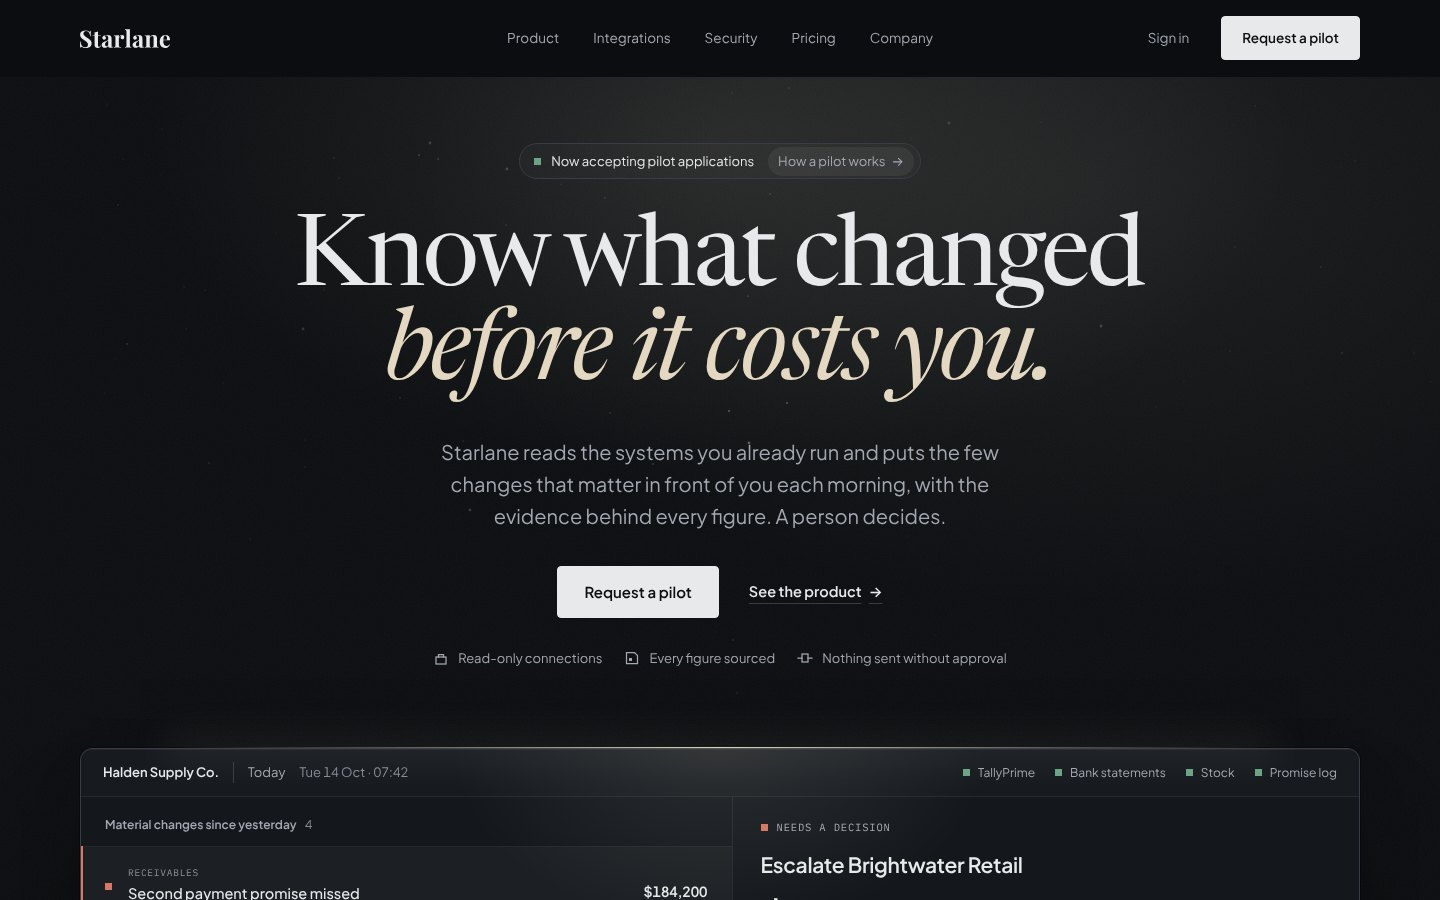
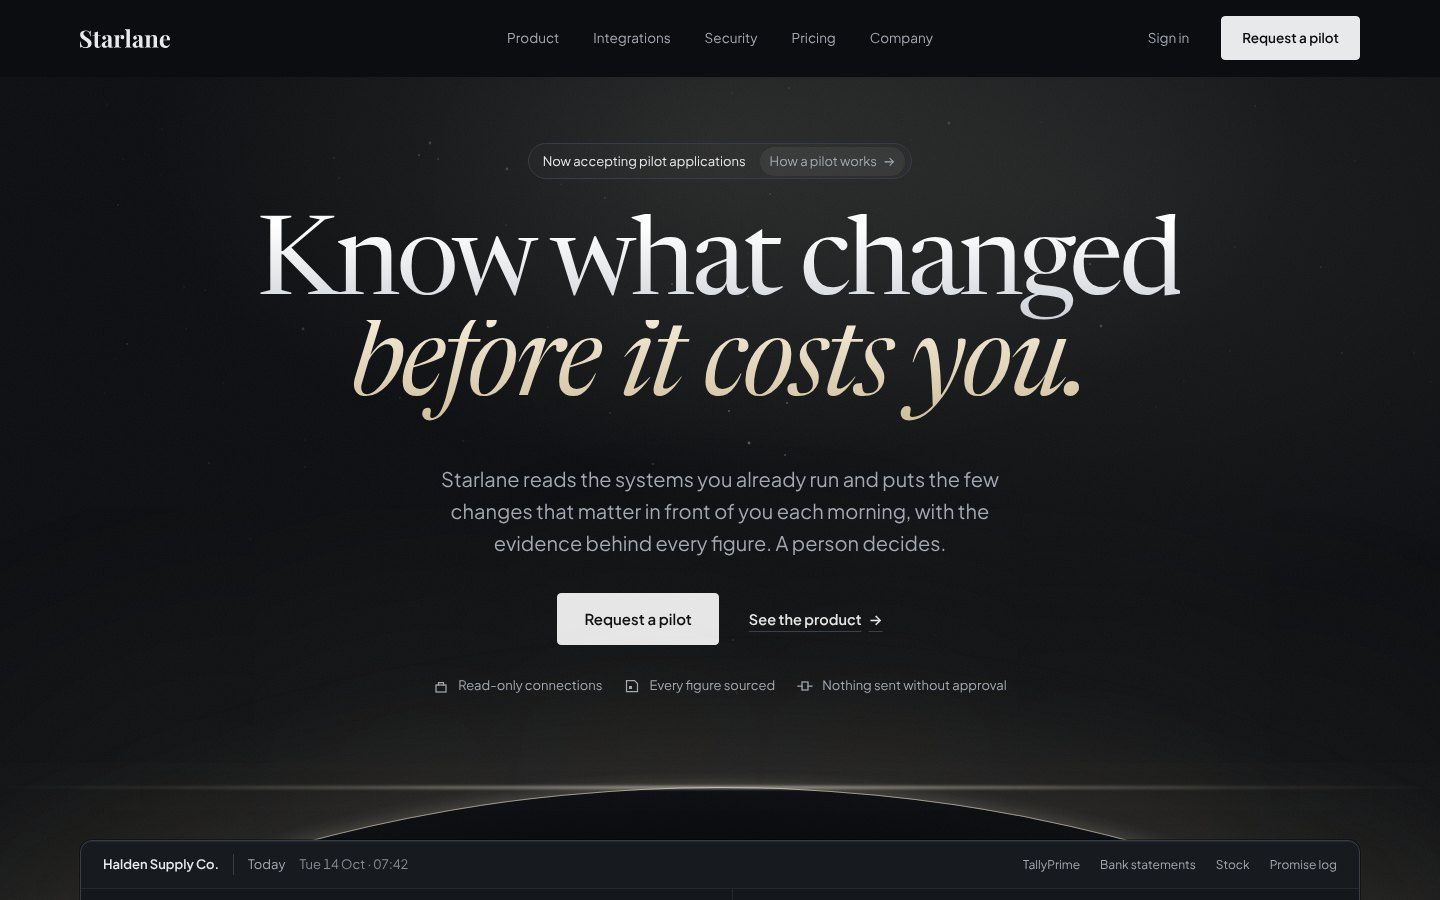
Hero: horizon light, larger lit headline; no square markers
The console now rises out of a lit horizon (one warm rim light over a dark
curve) instead of a straight beam, and the claim is larger, with a soft
vertical light on both lines. The small square status markers are removed
from the public site; status is carried by the label's colour instead.

Claude-Session: https://claude.ai/code/session_01TRYDuk83zkomBk6o8zRnck

diff --git a/app/site.css b/app/site.css
@@ -43,7 +43,9 @@
 .sl-start .hx-c { text-align: center; padding-top: clamp(40px, 4.6vw, 72px); }
 .sl-start .hx-c::after { top: -380px; width: 1600px; margin-left: -800px; background: radial-gradient(closest-side, rgb(241 231 211 / .1), transparent 72%); }
 .sl-start .hx-c .hx-top { display: flex; flex-direction: column; align-items: center; }
-.sl-start .hx-c .hx-h { margin-top: clamp(24px, 2.6vw, 36px); max-width: none; font-size: clamp(48px, 6.9vw, 104px); line-height: .94; }
+.sl-start .hx-c .hx-h { margin-top: clamp(26px, 2.8vw, 40px); max-width: none; font-size: clamp(48px, 7.6vw, 124px); line-height: .92; letter-spacing: -0.038em !important; }
+.sl-start .hx-c .hx-h > span { background: linear-gradient(180deg, #FFFFFF 10%, #C9CDD3 100%); -webkit-background-clip: text; background-clip: text; color: transparent; padding-bottom: .04em; }
+.sl-start .hx-c .hx-h em { background: linear-gradient(180deg, #F3E9D6 0%, #CDBB98 100%); -webkit-background-clip: text; background-clip: text; color: transparent; padding: 0 .06em .08em; }
 .sl-start .hx-c .hx-h > span { white-space: nowrap; }
 .sl-start .hx-c .hx-h em { display: block; }
 .sl-start .hx-c .hx-lead { margin: clamp(24px, 2.4vw, 34px) auto 0; max-width: 36rem; font-size: clamp(17px, 1.4vw, 20px); }
@@ -60,6 +62,18 @@
 .sl-start[data-motion="on"] .hx-c .hc:not(.is-in) .hc-frame { opacity: 0; transform: translateY(40px) rotateX(22deg) scale(.94); }
 .sl-start[data-motion="on"] .hx-beam { transition: opacity 1.2s var(--ease) .3s, width 1.4s var(--ease) .3s; }
 .sl-start[data-motion="on"] .hx-c:not(:has(.hc.is-in)) .hx-beam { opacity: 0; width: 20vw; }
+
+/* The horizon: the console rises out of a lit curve, like dawn over the edge
+   of a planet. One warm rim light, a soft bloom above it, darkness below. */
+.sl-start .hx-horizon { position: absolute; left: 50%; top: clamp(-56px, -3.6vw, -32px); width: max(3200px, 220vw); aspect-ratio: 1; transform: translateX(-50%); border-radius: 50%; z-index: 0; pointer-events: none;
+  background: radial-gradient(closest-side, #0B0D10 96%, transparent 100%);
+  box-shadow: 0 -1px 0 0 rgb(241 231 211 / .55), 0 -2px 18px 0 rgb(241 231 211 / .22), 0 -40px 120px 10px rgb(241 231 211 / .10), 0 -160px 320px 40px rgb(196 172 130 / .07); }
+.sl-start .hx-horizon::before { content: ""; position: absolute; left: 50%; top: -2px; width: 46%; height: 3px; transform: translateX(-50%); border-radius: 50%;
+  background: radial-gradient(closest-side, rgb(255 246 228 / .95), rgb(241 231 211 / 0)); filter: blur(1.5px); }
+.sl-start .hx-c .hx-stage > .f-wrap { position: relative; z-index: 1; }
+.sl-start .hx-c .hx-stage { margin-top: clamp(112px, 10vw, 152px); }
+.sl-start[data-motion="on"] .hx-horizon { transition: opacity 1.6s var(--ease) .2s, transform 1.8s var(--ease) .2s; }
+.sl-start[data-motion="on"] .hx-c:not(:has(.hc.is-in)) .hx-horizon { opacity: 0; transform: translateX(-50%) translateY(60px); }
 
 /* A sparse field of points above the claim: the name, said quietly. Static,
    decorative, and faded out before it reaches the copy's edges. */
@@ -90,8 +104,7 @@
 .sl-start .hc-h { padding: 18px 24px 12px; font-size: 12px; font-weight: 600; color: var(--fg2); }
 .sl-start .hc-h span { margin-left: 6px; font-weight: 400; color: var(--fg3); }
 .sl-start .hc-list ol { list-style: none; margin: 0; padding: 0; }
-.sl-start .hc-list li { position: relative; display: grid; grid-template-columns: 7px minmax(0, 1fr) auto; column-gap: 16px; align-items: start; padding: 18px 24px; border-top: 1px solid var(--line); }
-.sl-start .hc-list li .sq { margin-top: 18px; }
+.sl-start .hc-list li { position: relative; display: grid; grid-template-columns: minmax(0, 1fr) auto; column-gap: 16px; align-items: start; padding: 18px 24px; border-top: 1px solid var(--line); }
 .sl-start .hc-list li::before { content: ""; position: absolute; left: 0; top: -1px; bottom: 0; width: 2px; background: var(--risk); transform: scaleY(0); transform-origin: top; }
 .sl-start .hc-list li::after { content: ""; position: absolute; inset: 0; background: rgb(255 255 255 / .035); opacity: 0; pointer-events: none; }
 .sl-start .hc-list li.is-sel::before { transform: none; }
@@ -99,7 +112,7 @@
 .sl-start .hc-cat { display: block; margin-bottom: 4px; font-family: var(--sl-mono); font-size: 9.5px; letter-spacing: .08em; text-transform: uppercase; color: var(--fg3); }
 .sl-start .hc-list b { display: block; font-size: 14.5px; font-weight: 500; line-height: 1.35; color: var(--fg); }
 .sl-start .hc-who { display: block; margin-top: 3px; font-size: 12.5px; color: var(--fg3); }
-.sl-start .hc-amt { padding-top: 15px; font-size: 14px; font-weight: 600; color: var(--fg); white-space: nowrap; }
+.sl-start .hc-amt { padding-top: 17px; font-size: 14px; font-weight: 600; color: var(--fg); white-space: nowrap; }
 .sl-start .hc-quiet { margin-top: auto !important; padding: 14px 24px; border-top: 1px solid var(--line); font-family: var(--sl-mono); font-size: 10.5px; letter-spacing: .07em; text-transform: uppercase; color: var(--fg3); }
 .sl-start .hc-detail { padding: 22px 28px 24px; }
 .sl-start .hc-title { margin-top: 12px !important; font-size: 21px; font-weight: 600; letter-spacing: -0.015em; color: var(--fg); }

diff --git a/components/marketing/site/HeroConsole.tsx b/components/marketing/site/HeroConsole.tsx
@@ -23,7 +23,7 @@ export function HeroConsole() {
             <p className="hc-where"><b>Halden Supply Co.</b><span>Today</span><span className="num">Tue 14 Oct · 07:42</span></p>
             <ul className="hc-srcs">
               {SOURCES.map((s, i) => (
-                <li key={s} style={{ "--i": i } as React.CSSProperties}><i className="sq t-ok" />{s}</li>
+                <li key={s} style={{ "--i": i } as React.CSSProperties}>{s}</li>
               ))}
             </ul>
           </div>
@@ -34,9 +34,8 @@ export function HeroConsole() {
               <ol>
                 {CHANGES.map((c, i) => (
                   <li key={c.what} className={i === 0 ? "is-sel" : undefined} style={{ "--i": i } as React.CSSProperties}>
-                    <i className={`sq t-${c.tone}`} />
                     <div>
-                      <span className="hc-cat">{c.cat}</span>
+                      <span className={`hc-cat t-${c.tone}`}>{c.cat}</span>
                       <b>{c.what}</b>
                       <span className="hc-who">{c.who}</span>
                     </div>
@@ -48,7 +47,7 @@ export function HeroConsole() {
             </div>
 
             <div className="hc-detail">
-              <p className="ui-kicker"><i className="sq t-risk" />Needs a decision</p>
+              <p className="ui-kicker t-risk">Needs a decision</p>
               <p className="hc-title">Escalate Brightwater Retail</p>
               <div className="hc-fig">
                 <p className="num">$184,200</p>
@@ -69,7 +68,7 @@ export function HeroConsole() {
                 <p className="hc-opt-k">Likely collected in 30 days <i className="tag tag-est">Estimate</i></p>
               </div>
               <div className="hc-act">
-                <p><i className="sq t-warn" />Awaiting approval · account owner</p>
+                <p>Awaiting approval · account owner</p>
                 <span className="hc-btn hc-btn-q">Not now</span>
                 <span className="hc-btn">Review and approve</span>
               </div>

diff --git a/components/marketing/home/Rooms.tsx b/components/marketing/home/Rooms.tsx
@@ -19,12 +19,12 @@ export function WatchRoom() {
     <InView className="w4">
       <div className="w4-bar">
         <p><b>Watch</b><span>Tue 14 Oct · 07:42</span><span className="w4-ill">Illustrative · Halden Supply Co.</span></p>
-        <p className="w4-bar-r"><span>4 material changes</span><span><i className="sq t-ok" />4 systems current</span></p>
+        <p className="w4-bar-r"><span>4 material changes</span><span>4 systems current</span></p>
       </div>
       <ol className="w4-grid">
         {WATCH.map((c, i) => (
           <li key={c.cat} className={`w4-card t-${c.tone}`} style={{ "--i": i } as React.CSSProperties}>
-            <p className="w4-cat"><i className={`sq t-${c.tone}`} />{c.cat}</p>
+            <p className={`w4-cat t-${c.tone}`}>{c.cat}</p>
             <p className="w4-what">{c.what}</p>
             <p className="w4-who">{c.who}</p>
             <p className="w4-fig num">{c.fig}<span>{c.figK}</span></p>
@@ -102,7 +102,7 @@ export function VerificationRecord() {
       <div className="v7-dim" aria-hidden><span>8 days</span></div>
       <figure className="v7-macro">
         <div className="v7-macro-in">
-          <p className="ui-kicker"><i className="sq t-ok" />Observed · on track · 22 Oct 07:41</p>
+          <p className="ui-kicker t-ok">Observed · on track · 22 Oct 07:41</p>
           <p className="v7-macro-fig num">$60,000.00 <span>received</span></p>
           <dl>
             <div><dt>Against</dt><dd>INV-1042 · $2,400 left on it</dd></div>

diff --git a/app/page.tsx b/app/page.tsx
@@ -90,7 +90,7 @@ export default function LandingPage() {
       <header className="f f-dark hx hx-c">
         <div className="hx-stars" aria-hidden />
         <div className="f-wrap hx-top">
-          <Link href="/pricing" className="hx-pill"><i className="sq t-ok" aria-hidden />Now accepting pilot applications<span>How a pilot works<b aria-hidden>→</b></span></Link>
+          <Link href="/pricing" className="hx-pill">Now accepting pilot applications<span>How a pilot works<b aria-hidden>→</b></span></Link>
           <h1 className="f-display hx-h"><span>Know what changed</span> <em>before it costs you.</em></h1>
           <p className="f-lead hx-lead">
             Starlane reads the systems you already run and puts the few changes that matter in front of you each
@@ -107,7 +107,7 @@ export default function LandingPage() {
           </ul>
         </div>
         <div className="hx-stage">
-          <div className="hx-beam" aria-hidden />
+          <div className="hx-horizon" aria-hidden />
           <div className="f-wrap"><HeroConsole /></div>
         </div>
         <div className="f-wrap hx-foot"><p className="f-cap">{CAPTION}</p></div>

diff --git a/app/start.css b/app/start.css
@@ -590,3 +590,7 @@ html:has(.sl.sl-start) .cookie-consent {
   --ck-solid: #E8E9EB; --ck-on-solid: #0B0D10; --ck-shadow: 0 24px 60px -20px rgb(0 0 0 / .7);
 }
 html:has(.sl.sl-start) .cookie-card { backdrop-filter: blur(14px); -webkit-backdrop-filter: blur(14px); }
+
+/* Status is carried by the label's colour; no square markers on the public site. */
+.sl-start .sq { display: none; }
+.sl-start .hc-cat[class*="t-"], .sl-start .w4-cat[class*="t-"], .sl-start .ui-kicker[class*="t-"] { color: var(--tone); }

diff --git a/components/marketing/home/Plates.tsx b/components/marketing/home/Plates.tsx
@@ -160,7 +160,7 @@ export function EvidenceStack() {
   return (
     <InView className="ev5">
       <div className="ev5-cap" aria-hidden>
-        <p className="ui-kicker"><i className="sq t-risk" />Decision</p>
+        <p className="ui-kicker t-risk">Decision</p>
         <p className="ev5-cap-t">Escalate Brightwater Retail</p>
       </div>
       <ol className="ev5-plates">
